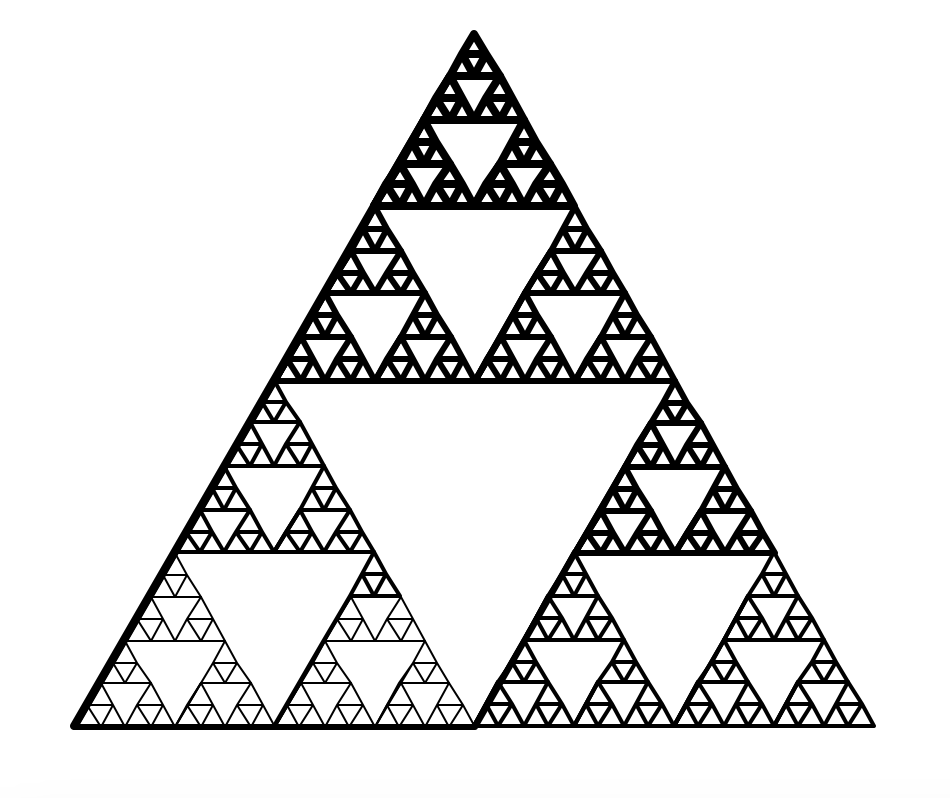
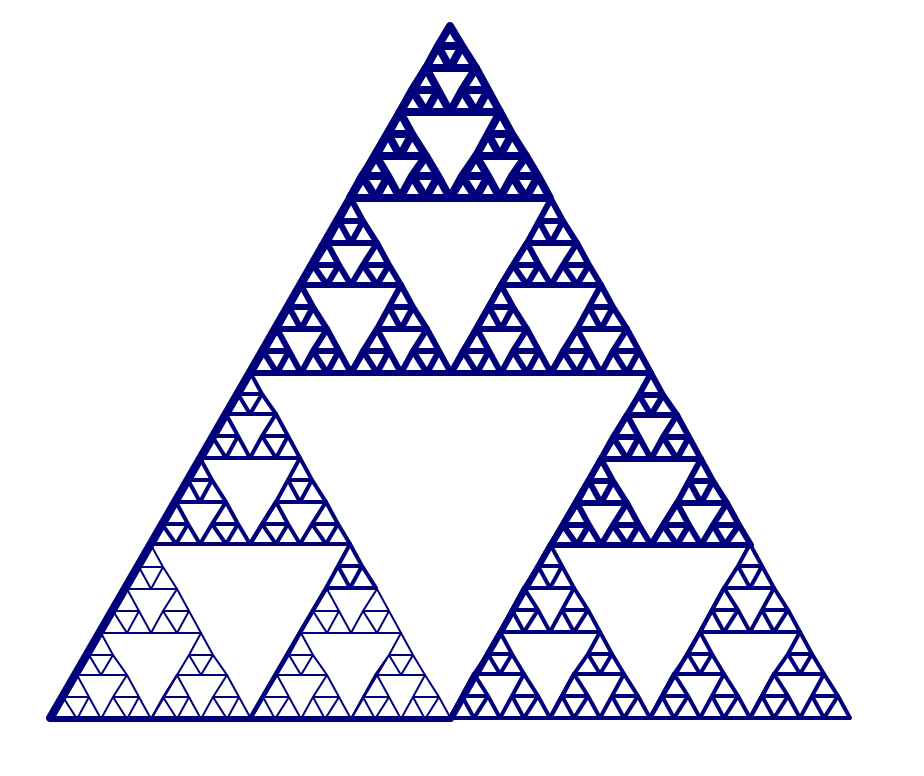
edited the files

Changed region(s): [[0.0303, 0.0309, 0.9394, 0.9278]]

diff --git a/fractals.html b/fractals.html
@@ -19,22 +19,22 @@
         <p>Here is an image of <code>draw_koch(t, 4, 200)</code>:</p>
         <img src="img/koch_original.png" width="700px">
         <p>This fractal has been modified such that every other line drawn is slightly shorter than the rest.</p>
-        <p>Here is my modified fractal's code and an image of <code>draw_koch(t, 4, 200)</code>:</p>
+        <p>Here is my modified fractal's code and an image of <code>draw_koch_variant(t, 4, 200)</code>:</p>
         <div class="row">
             <div style="font-size: 20px;" class="textbx">
                 <pre>
         <code>
-def draw_koch(t, depth, length):
+def draw_koch_variant(t, depth, length):
     if depth == 1:
         t.forward(length)
     else:
-        draw_koch(t, depth-1, length/2)
+        draw_koch_variant(t, depth-1, length/2)
         t.left(60)
-        draw_koch(t, depth-1, length/3)
+        draw_koch_variant(t, depth-1, length/3)
         t.right(120)
-        draw_koch(t, depth-1, length/2)
+        draw_koch_variant(t, depth-1, length/2)
         t.left(60)
-        draw_koch(t, depth-1, length/3)        
+        draw_koch_variant(t, depth-1, length/3)        
         </code>
     </pre>
             </div>
@@ -53,16 +53,17 @@ def draw_koch(t, depth, length):
         <p>Here is an image of <code>draw_sierpinski(t, 5, 400)</code>:</p>
         <img src="img/sierpinski_original.png" width="700px">
         <p>I modified the triangle by having the pen size gradually increase as you go up and to the right in the
-            triangle.
+            triangle. Additionally, the triangle is now colored navy.
         </p>
-        <p>Here is my modified fractal's code and an image of <code>draw_sierpinski(t, 5, 400, 1.0)</code>:</p>
+        <p>Here is my modified fractal's code and an image of <code>draw_sierpinski_variant(t, 5, 400, 1.0)</code>:</p>
         <div class="row">
-            <div style="font-size:15px;" class="textbx">
+            <div style="font-size:14px;" class="textbx">
                 <pre>
         <code>
 pens = 0.03
 
-def draw_sierpinski(t, depth, length, pen_size):
+def draw_sierpinski_variant(t, depth, length, pen_size):
+    t.color('navy')
     global pens
     pens += 0.002
     if depth == 0:
@@ -71,17 +72,17 @@ def draw_sierpinski(t, depth, length, pen_size):
             t.left(120)
     else:
         t.pensize(pen_size)
-        draw_sierpinski(t, depth-1, length/2, pen_size + pens)
+        draw_sierpinski_variant(t, depth-1, length/2, pen_size + pens)
         t.forward(length/2)
-        draw_sierpinski(t, depth-1, length/2, pen_size + pens)
+        draw_sierpinski_variant(t, depth-1, length/2, pen_size + pens)
         t.backward(length/2)
         t.left(60)
         t.forward(length/2)
         t.right(60)
-        draw_sierpinski(t, depth-1, length/2, pen_size + pens)
+        draw_sierpinski_variant(t, depth-1, length/2, pen_size + pens)
         t.left(60)
         t.backward(length/2)
-        t.right(60)         
+        t.right(60)        
         </code>
     </pre>
             </div>
@@ -100,7 +101,7 @@ def draw_sierpinski(t, depth, length, pen_size):
         <img src="img/tree_original.png" width="700px">
         <p>I modified this tree in several ways: First, I altered the color to firebrick. Then, I randomized the lengths
             of each branch. Finally, I randomized the angles between branches.</p>
-        <p>Here is my modified fractal's code and an image of <code>tree(t, 4, 100, 30, 3)</code>- p.s. <em>keep
+        <p>Here is my modified fractal's code and an image of <code>draw_tree_variant(t, 4, 100, 30, 3)</code>- p.s. <em>keep
                 scrolling!</em>:</p>
         <div class="row">
             <div style="font-size:11px; width:800px;" class="textbx">
@@ -108,7 +109,7 @@ def draw_sierpinski(t, depth, length, pen_size):
         <code>
 import random
 
-def tree(t, depth, length, angle, width):
+def draw_tree_variant(t, depth, length, angle, width):
     t.color('firebrick')
     if depth == 0:
         return
@@ -116,9 +117,9 @@ def tree(t, depth, length, angle, width):
         t.pensize(width)
         t.forward(length)
         t.left(angle)
-        tree(t, depth-1, length*(random.random() + 0.3), angle * (random.random() + 0.43), width - 0.2)
+        draw_tree_variant(t, depth-1, length*(random.random() + 0.3), angle * (random.random() + 0.43), width - 0.2)
         t.right(angle*2)
-        tree(t, depth-1, length*(random.random() + 0.3), angle * (random.random() + 0.40), width - 0.2)
+        draw_tree_variant(t, depth-1, length*(random.random() + 0.3), angle * (random.random() + 0.40), width - 0.2)
         t.left(angle)
         t.backward(length)
         </code>
